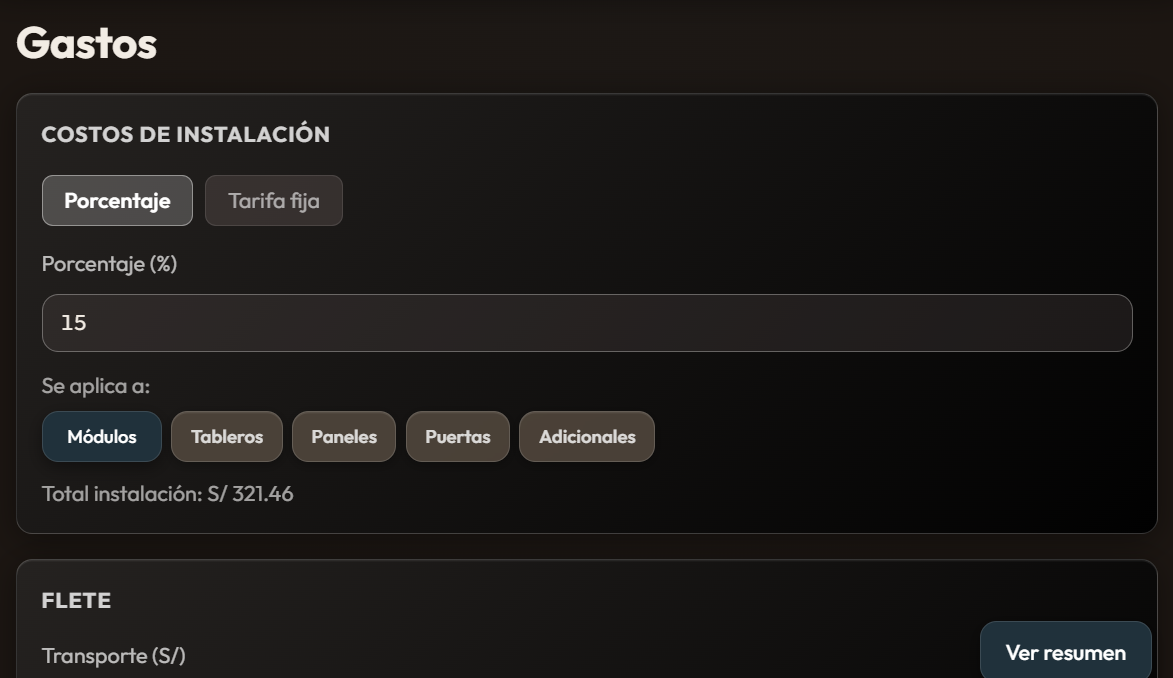
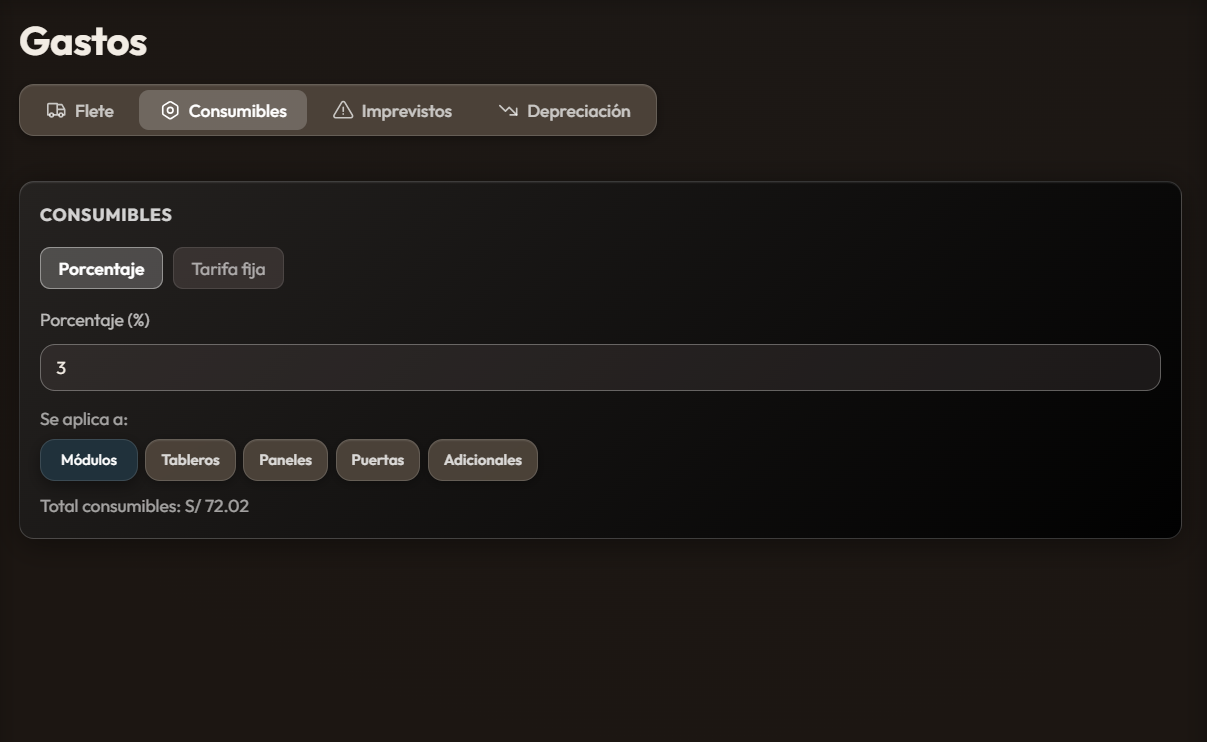
Actualizar seccion Explora la plataforma: 6 pestañas con nuevas imagenes y textos

diff --git a/index.html b/index.html
@@ -905,10 +905,12 @@ footer{background:#0B0705;color:#85715B;padding:44px 0;font-size:14px;border-top
   <div class="wrap">
     <!-- Pestañas interactivas -->
     <div class="gallery-tabs reveal">
-      <button class="tab-btn active" data-tab="tab-modulos" id="btn-tab-modulos">1. Módulos & Melamina</button>
-      <button class="tab-btn" data-tab="tab-gastos" id="btn-tab-gastos">2. Gastos & Mano de Obra</button>
-      <button class="tab-btn" data-tab="tab-configuracion" id="btn-tab-config">3. Precios & Acabados</button>
-      <button class="tab-btn" data-tab="tab-proyectos" id="btn-tab-proyectos">4. Proyectos & PDF</button>
+      <button class="tab-btn active" data-tab="tab-modulos" id="btn-tab-modulos">1. Módulos</button>
+      <button class="tab-btn" data-tab="tab-adicionales" id="btn-tab-adicionales">2. Adicionales</button>
+      <button class="tab-btn" data-tab="tab-gastos" id="btn-tab-gastos">3. Gastos</button>
+      <button class="tab-btn" data-tab="tab-ganancia" id="btn-tab-ganancia">4. Ganancia</button>
+      <button class="tab-btn" data-tab="tab-precios" id="btn-tab-precios">5. Precios</button>
+      <button class="tab-btn" data-tab="tab-logo-pdf" id="btn-tab-logo-pdf">6. Logo y PDF</button>
     </div>
 
     <!-- Panel 1: Módulos -->
@@ -918,7 +920,7 @@ footer{background:#0B0705;color:#85715B;padding:44px 0;font-size:14px;border-top
       </div>
       <div class="tab-info-card">
         <h3>Constructor de Módulos Inteligente</h3>
-        <p>Configura módulos altos, bajos, esquineros o columnas. La aplicación dimensiona los tableros interiores, fondos, frentes y cajoneras automáticamente con tolerancias de taller.</p>
+        <p>Configura módulos altos, bajos, cajones y divisiones. La aplicación dimensiona los tableros interiores, fondos, frentes y cajoneras automáticamente con tolerancias de taller.</p>
         <div class="tab-feature-points">
           <div class="point-row">
             <svg width="18" height="18" viewBox="0 0 24 24" fill="none" stroke="currentColor" stroke-width="2"><path d="M20 6L9 17l-5-5"/></svg>
@@ -930,82 +932,132 @@ footer{background:#0B0705;color:#85715B;padding:44px 0;font-size:14px;border-top
           </div>
           <div class="point-row">
             <svg width="18" height="18" viewBox="0 0 24 24" fill="none" stroke="currentColor" stroke-width="2"><path d="M20 6L9 17l-5-5"/></svg>
-            <span>Tapacantos delgados y gruesos parametrizables por módulo.</span>
+            <span>Cálculo de mano de obra e instalación por cada sección.</span>
           </div>
         </div>
       </div>
     </div>
 
-    <!-- Panel 2: Gastos -->
+    <!-- Panel 2: Adicionales -->
+    <div class="tab-panel" id="tab-adicionales">
+      <div class="tab-visual-wrap">
+        <img src="public/img/gallery/adicionales.webp" alt="Adicionales y luz LED en Cotizador Modulax">
+      </div>
+      <div class="tab-info-card">
+        <h3>Accesorios e Iluminación LED</h3>
+        <p>Agrega accesorios y herrajes según la necesidad de cada proyecto. Ofrece al cliente extras que elevan el valor de su mueble y aumenta el ticket promedio de cada venta sin complicaciones.</p>
+        <div class="tab-feature-points">
+          <div class="point-row">
+            <svg width="18" height="18" viewBox="0 0 24 24" fill="none" stroke="currentColor" stroke-width="2"><path d="M20 6L9 17l-5-5"/></svg>
+            <span>Accesorios diversos: condimentero, tacho extraíble, pasacables, sensores y más.</span>
+          </div>
+          <div class="point-row">
+            <svg width="18" height="18" viewBox="0 0 24 24" fill="none" stroke="currentColor" stroke-width="2"><path d="M20 6L9 17l-5-5"/></svg>
+            <span>Iluminación LED integrada directamente al costo del proyecto.</span>
+          </div>
+          <div class="point-row">
+            <svg width="18" height="18" viewBox="0 0 24 24" fill="none" stroke="currentColor" stroke-width="2"><path d="M20 6L9 17l-5-5"/></svg>
+            <span>Ítems opcionales que se reflejan al instante en la cotización.</span>
+          </div>
+        </div>
+      </div>
+    </div>
+
+    <!-- Panel 3: Gastos -->
     <div class="tab-panel" id="tab-gastos">
       <div class="tab-visual-wrap">
-        <img src="public/img/gallery/gastos.webp" alt="Gestión de gastos e imprevistos en Cotizador Modulax">
+        <img src="public/img/gallery/gastos.webp" alt="Gastos de flete, consumibles y depreciación de herramientas en Cotizador Modulax">
       </div>
       <div class="tab-info-card">
-        <h3>Control Total de Costos y Mano de Obra</h3>
-        <p>No dejes fuera ningún gasto imprevisto. Añade fletes, movilidad, consumibles (tornillos, tarugos, adhesivos) y define tu porcentaje de mano de obra con total transparencia.</p>
+        <h3>Gastos Reales del Taller</h3>
+        <p>Ingresas los gastos que muchos olvidan contar: flete, consumibles y la depreciación de tus herramientas. Cada cotización refleja el costo real de tu trabajo y tu rentabilidad queda protegida.</p>
         <div class="tab-feature-points">
           <div class="point-row">
             <svg width="18" height="18" viewBox="0 0 24 24" fill="none" stroke="currentColor" stroke-width="2"><path d="M20 6L9 17l-5-5"/></svg>
-            <span>Tarifas fijas o porcentuales de instalación y armado.</span>
+            <span>Flete y entregas calculados por proyecto.</span>
           </div>
           <div class="point-row">
             <svg width="18" height="18" viewBox="0 0 24 24" fill="none" stroke="currentColor" stroke-width="2"><path d="M20 6L9 17l-5-5"/></svg>
-            <span>Margen de seguridad para imprevistos y desperdicio de material.</span>
+            <span>Consumibles: tornillos, tarugos, adhesivos y más.</span>
           </div>
           <div class="point-row">
             <svg width="18" height="18" viewBox="0 0 24 24" fill="none" stroke="currentColor" stroke-width="2"><path d="M20 6L9 17l-5-5"/></svg>
-            <span>Visualización del costo bruto vs. tu utilidad neta.</span>
+            <span>Depreciación de herramientas para un costo real por trabajo.</span>
           </div>
         </div>
       </div>
     </div>
 
-    <!-- Panel 3: Configuración -->
-    <div class="tab-panel" id="tab-configuracion">
+    <!-- Panel 4: Ganancia -->
+    <div class="tab-panel" id="tab-ganancia">
       <div class="tab-visual-wrap">
-        <img src="public/img/gallery/configuracion.webp" alt="Panel de configuración de precios en Cotizador Modulax">
+        <img src="public/img/gallery/ganancia.webp" alt="Cálculo de ganancia, impuestos y descuentos en Cotizador Modulax">
       </div>
       <div class="tab-info-card">
-        <h3>Tu Lista de Precios Personalizada</h3>
-        <p>Ingresa los precios a los que compras en tu distribuidor local (Pelíkano, Vesto, Masisa, Novopan, etc.). La app utilizará tus valores exactos en cada presupuesto.</p>
+        <h3>Tu Ganancia Bajo Control</h3>
+        <p>Calcula la ganancia que pretendes ganar en cada proyecto. Configura tus impuestos, ajusta descuentos y aplica redondeo para presentar precios atractivos sin sacrificar tu utilidad.</p>
         <div class="tab-feature-points">
           <div class="point-row">
             <svg width="18" height="18" viewBox="0 0 24 24" fill="none" stroke="currentColor" stroke-width="2"><path d="M20 6L9 17l-5-5"/></svg>
-            <span>Precios de planchas, servicios de corte y pegado de canto.</span>
+            <span>Margen de ganancia objetivo configurable por proyecto.</span>
           </div>
           <div class="point-row">
             <svg width="18" height="18" viewBox="0 0 24 24" fill="none" stroke="currentColor" stroke-width="2"><path d="M20 6L9 17l-5-5"/></svg>
-            <span>Catálogo de herrajes configurables según marcas (Blum, Ducasse, etc.).</span>
+            <span>Impuestos calculados automáticamente según tu configuración.</span>
           </div>
           <div class="point-row">
             <svg width="18" height="18" viewBox="0 0 24 24" fill="none" stroke="currentColor" stroke-width="2"><path d="M20 6L9 17l-5-5"/></svg>
-            <span>Datos comerciales y logotipo de tu taller para el membrete del PDF.</span>
+            <span>Descuentos y redondeo ajustables para cerrar más ventas.</span>
           </div>
         </div>
       </div>
     </div>
 
-    <!-- Panel 4: Proyectos -->
-    <div class="tab-panel" id="tab-proyectos">
+    <!-- Panel 5: Precios -->
+    <div class="tab-panel" id="tab-precios">
       <div class="tab-visual-wrap">
-        <img src="public/img/gallery/proyectos.webp" alt="Listado de proyectos y exportación PDF en Cotizador Modulax">
+        <img src="public/img/gallery/precios.webp" alt="Personalización de precios de materiales, tableros, acabados y accesorios en Cotizador Modulax">
       </div>
       <div class="tab-info-card">
-        <h3>Biblioteca de Proyectos & Exportación</h3>
-        <p>Todos tus clientes y cotizaciones organizadas en un solo lugar. Puedes duplicar un proyecto de cocina existente para un cliente nuevo en 1 clic y exportar un PDF profesional.</p>
+        <h3>Tus precios 100% personalizados</h3>
+        <p>Personaliza todos los precios de tu negocio: materiales, tableros, accesorios y herrajes. La app utilizará siempre tus valores exactos en cada presupuesto, sin sorpresas.</p>
         <div class="tab-feature-points">
           <div class="point-row">
             <svg width="18" height="18" viewBox="0 0 24 24" fill="none" stroke="currentColor" stroke-width="2"><path d="M20 6L9 17l-5-5"/></svg>
-            <span>Descarga en PDF lista para imprimir o compartir por WhatsApp.</span>
+            <span>Precios actualizables de tableros y materiales.</span>
           </div>
           <div class="point-row">
             <svg width="18" height="18" viewBox="0 0 24 24" fill="none" stroke="currentColor" stroke-width="2"><path d="M20 6L9 17l-5-5"/></svg>
-            <span>Historial de presupuestos aceptados, pendientes y archivados.</span>
+            <span>Acabados y frentes con tarifas propias.</span>
           </div>
           <div class="point-row">
             <svg width="18" height="18" viewBox="0 0 24 24" fill="none" stroke="currentColor" stroke-width="2"><path d="M20 6L9 17l-5-5"/></svg>
-            <span>Acceso sincronizado desde tu móvil, tablet o PC de taller.</span>
+            <span>Accesorios y herrajes con tu lista real de costos.</span>
+          </div>
+        </div>
+      </div>
+    </div>
+
+    <!-- Panel 6: Logo y PDF -->
+    <div class="tab-panel" id="tab-logo-pdf">
+      <div class="tab-visual-wrap">
+        <img src="public/img/gallery/logo.webp" alt="Configuración de la cotización PDF con logo personalizado en Cotizador Modulax">
+      </div>
+      <div class="tab-info-card">
+        <h3>Cotización con tu Marca</h3>
+        <p>Configura tu cotización y personalízala con el logo de tu negocio. Configura tu identificador para cotizaciones en serie. Genera un PDF profesional con la identidad de tu negocio que transmite confianza y te ayuda a cerrar la venta.</p>
+        <div class="tab-feature-points">
+          <div class="point-row">
+            <svg width="18" height="18" viewBox="0 0 24 24" fill="none" stroke="currentColor" stroke-width="2"><path d="M20 6L9 17l-5-5"/></svg>
+            <span>Logo de tu negocio en el membrete del PDF.</span>
+          </div>
+          <div class="point-row">
+            <svg width="18" height="18" viewBox="0 0 24 24" fill="none" stroke="currentColor" stroke-width="2"><path d="M20 6L9 17l-5-5"/></svg>
+            <span>Formato ejecutivo listo para imprimir o enviar por WhatsApp.</span>
+          </div>
+          <div class="point-row">
+            <svg width="18" height="18" viewBox="0 0 24 24" fill="none" stroke="currentColor" stroke-width="2"><path d="M20 6L9 17l-5-5"/></svg>
+            <span>Imagen profesional que eleva tu tasa de cierre.</span>
           </div>
         </div>
       </div>
